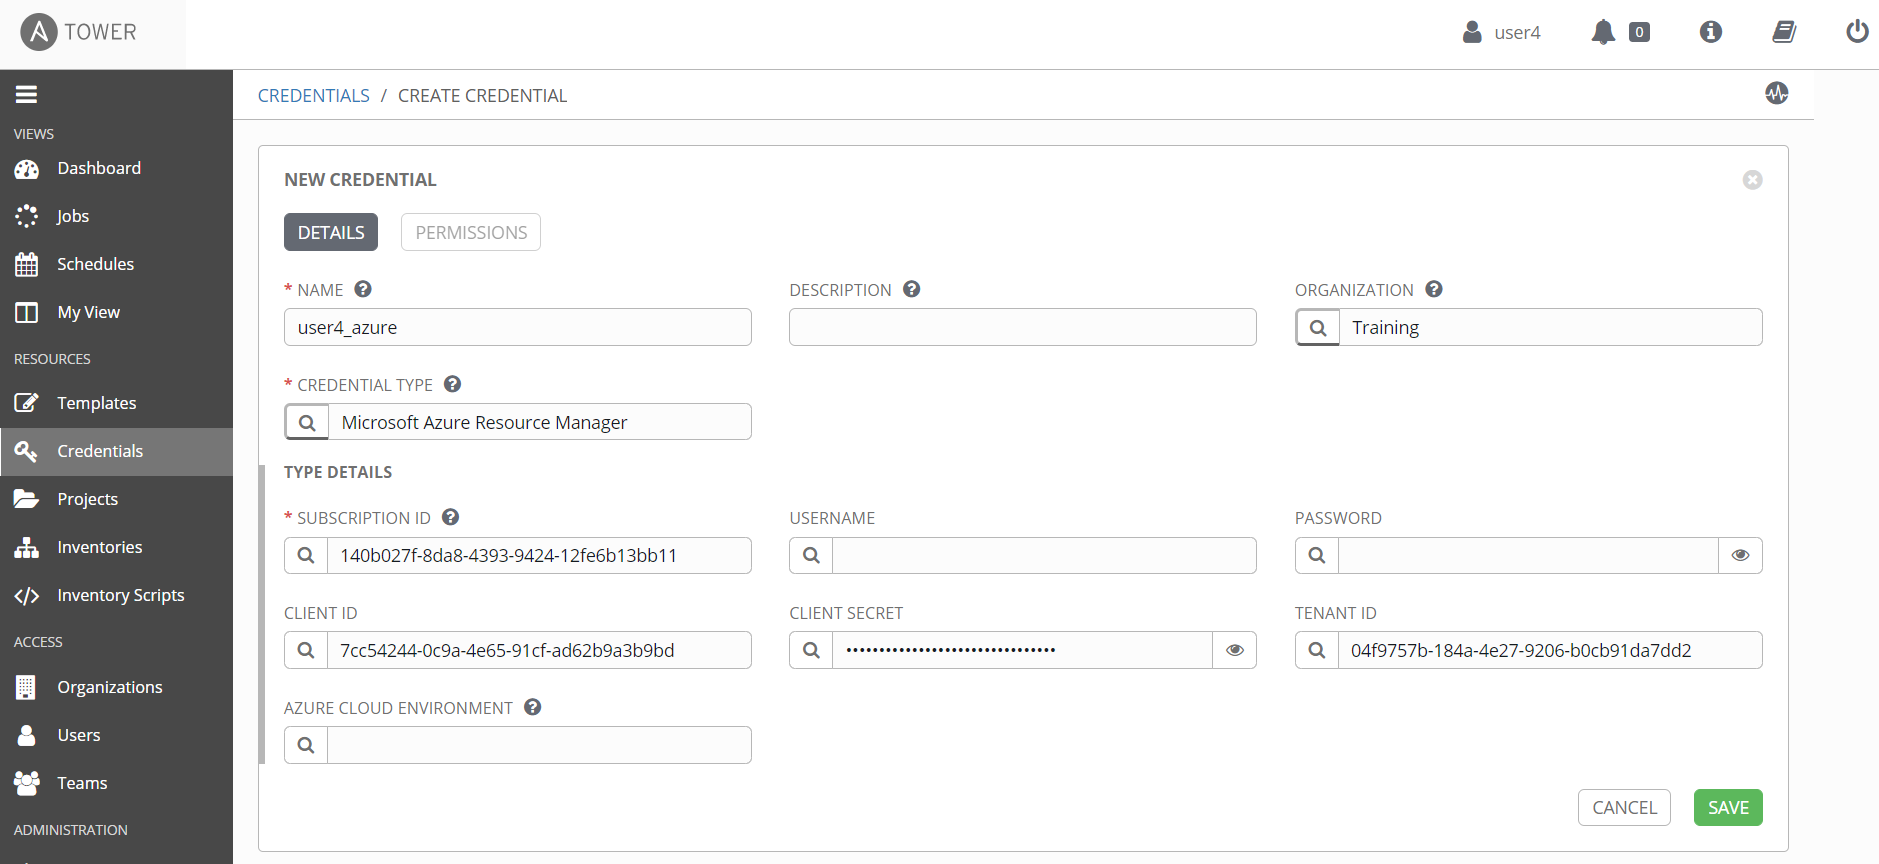
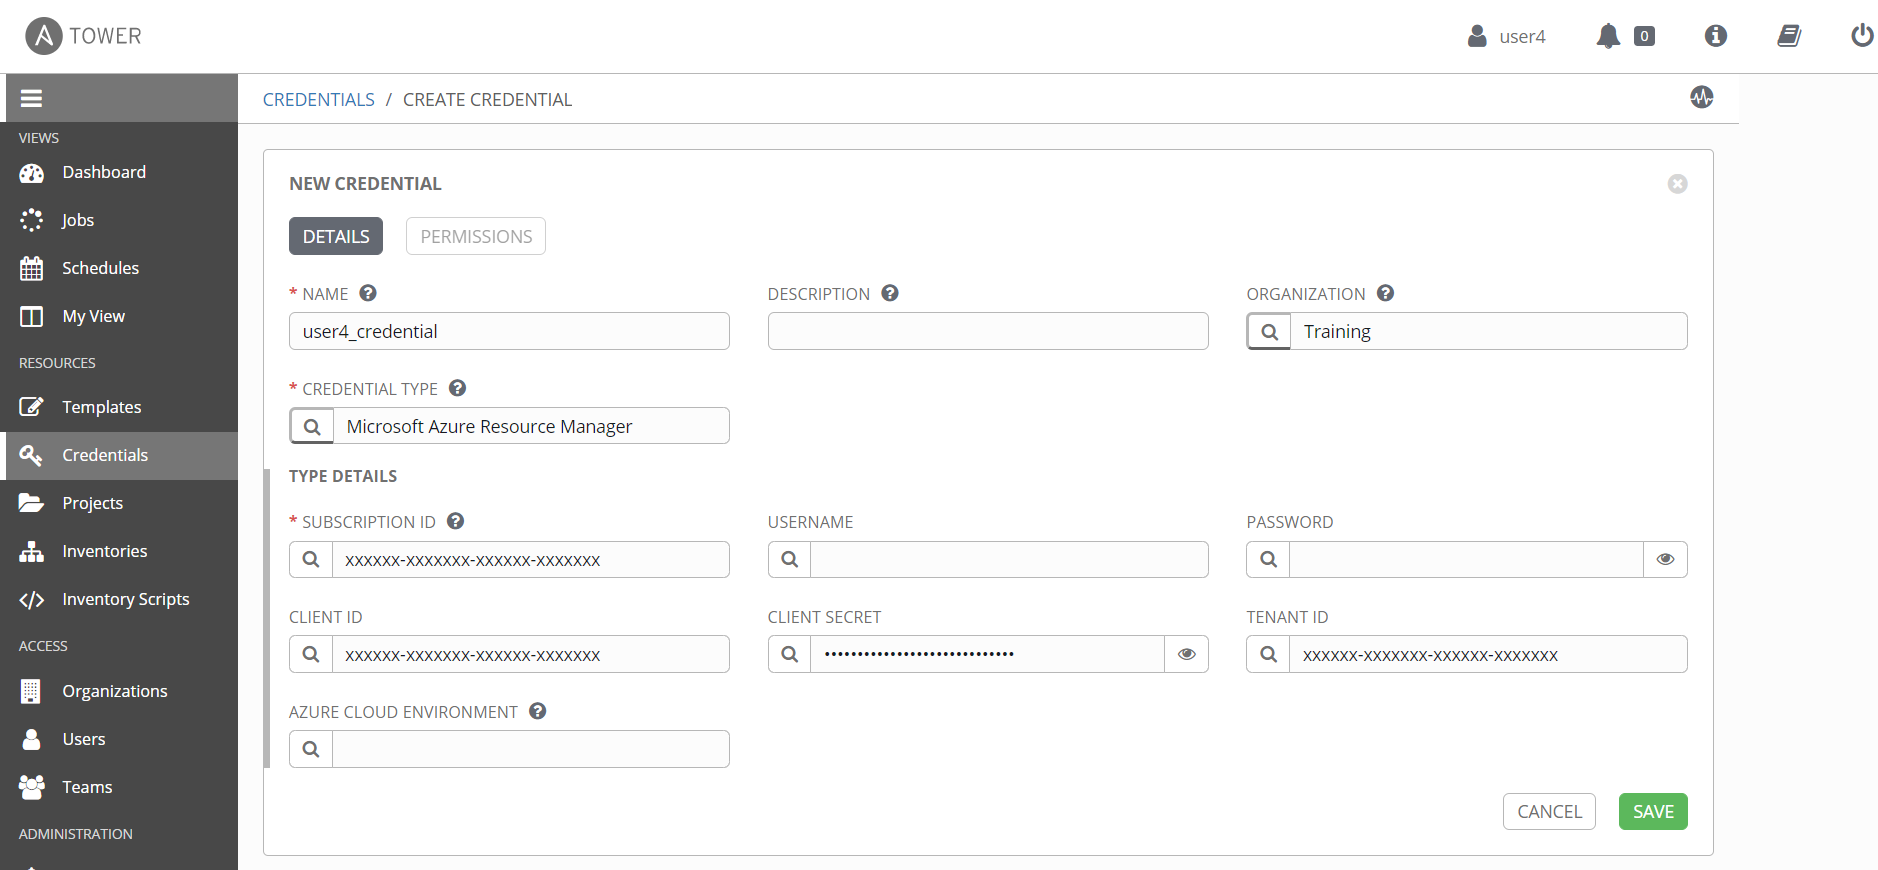
added credential

diff --git a/lab07/lab7.md b/lab07/lab7.md
@@ -52,6 +52,40 @@ Leave the rest, click __Save__
 
 ![Alt text](pics/03_ansible_tower_create_inventory.png?raw=true "Create an inventory")
 
+In the left pane, click credentials
+
+Click on the Green Plus sign to create a new Credential
+
+Type
+
+Name: userx_credential
+
+Organization: Training
+
+Click on the "Credential Type
+
+![Alt text](pics/04_ansible_tower_create_credential.png?raw=true "select credential type")
+
+And select
+
+Microsoft Azure Resource Manager
+
+From the Azure Lab - Lab 04 find the credentials you used
+
+Hint: On server ansible cat ~/.azure/credentials
+
+Type
+
+Subscribtion: xxxxx-xxxxx-xxxxx-xxxxx-xxxxx
+
+Client ID: xxxxx-xxxxx-xxxxx-xxxxx-xxxxx
+
+Client Secret: xxxxx-xxxxx-xxxxx-xxxxx-xxxxx
+
+Tenant ID: xxxxx-xxxxx-xxxxx-xxxxx-xxxxx
+
+![Alt text](pics/05_ansible_tower_create_credential_filled.png?raw=true "Create credential")
+
 Lab done
 
 [Ansible Exercise](../lab08/lab8.md)
